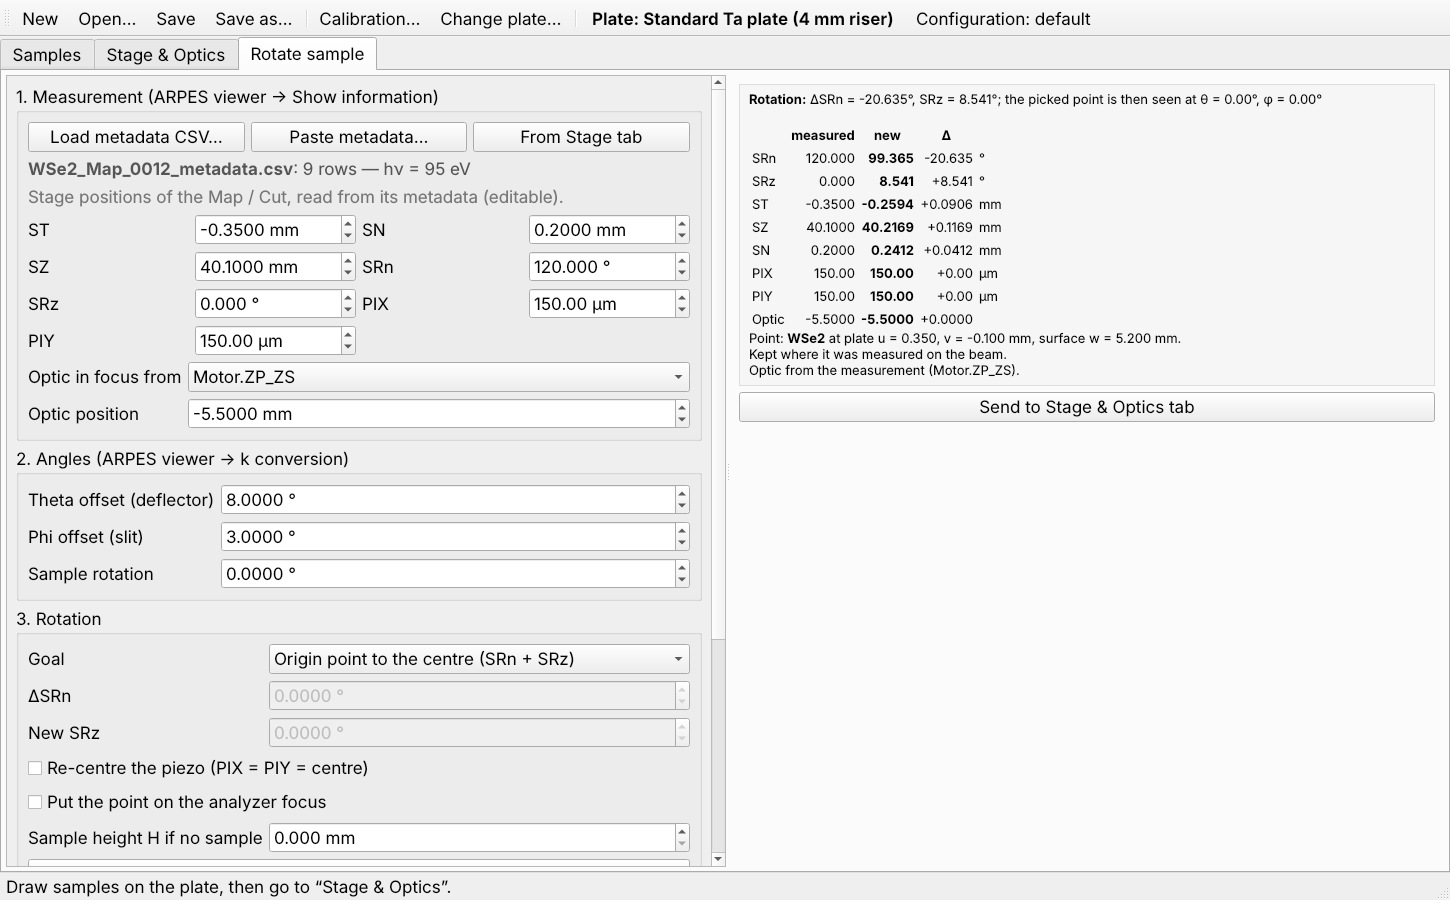
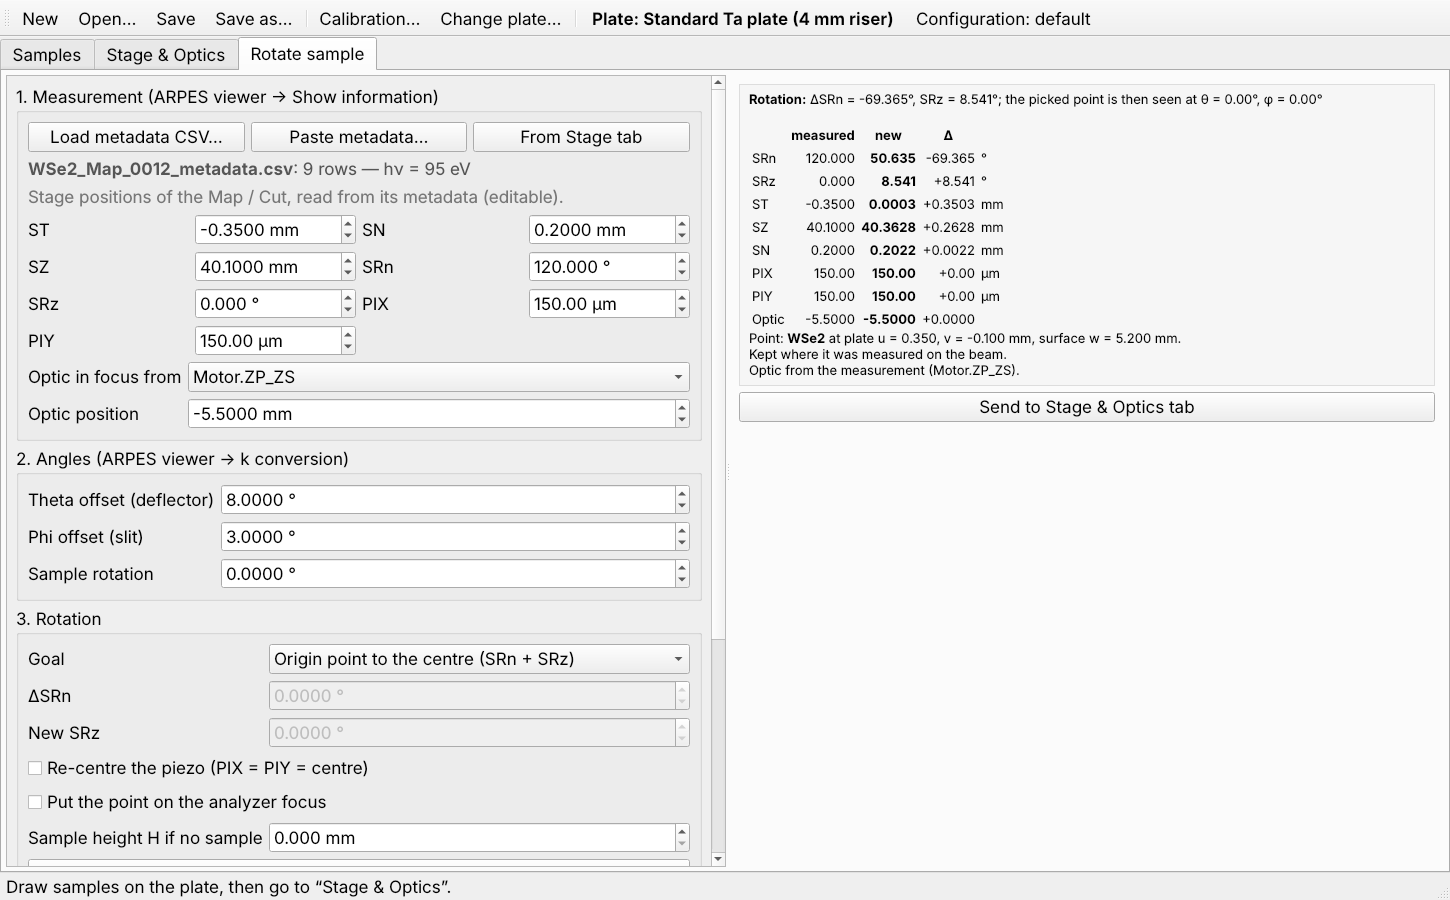
Rotate sample: horizontal analyzer slit by default (ANTARES)
The slit orientation setting is now stored by name, so an earlier saved
choice is not reinterpreted by the new order.

Claude-Session: https://claude.ai/code/session_01Ti72QyxSFR34LYfiKH7crR

Changed region(s): [[0.5897, 0.0933, 0.869, 0.3733]]

diff --git a/quickalignment/ui/rotation_panel.py b/quickalignment/ui/rotation_panel.py
@@ -222,14 +222,16 @@ class RotationPanel(QtWidgets.QWidget):
                 return int(self.settings.value(f"rotation/{key}", default))
             except (TypeError, ValueError):
                 return default
-        self.slit.setCurrentIndex(get("slit", 0))
+        slit = self.settings.value("rotation/slit_orientation", SLIT_ORIENTATIONS[0])
+        self.slit.setCurrentText(slit if slit in SLIT_ORIENTATIONS else SLIT_ORIENTATIONS[0])
         self._on_slit(self.slit.currentText())
         self.slit_sign.setCurrentIndex(get("slit_sign", 0))
         self.defl_sign.setCurrentIndex(get("deflector_sign", 0))
         self.rot_sign.setCurrentIndex(get("rotation_sign", 0))
 
     def _save_settings(self, *_) -> None:
-        for key, box in (("slit", self.slit), ("slit_sign", self.slit_sign), ("deflector_sign", self.defl_sign),
+        self.settings.setValue("rotation/slit_orientation", self.slit.currentText())
+        for key, box in (("slit_sign", self.slit_sign), ("deflector_sign", self.defl_sign),
                          ("rotation_sign", self.rot_sign)):
             self.settings.setValue(f"rotation/{key}", box.currentIndex())
 

diff --git a/quickalignment/rotation.py b/quickalignment/rotation.py
@@ -35,21 +35,21 @@ from .stage import (
     B, N_HAT, T_HAT, Z_HAT, MotorPositions, OpticsCalibration, StageModel, beam_on_layout, rot_2d, rot_z,
 )
 
-SLIT_ORIENTATIONS = ("vertical", "horizontal")
+SLIT_ORIENTATIONS = ("horizontal", "vertical")  # ANTARES: horizontal slit
 
 
 @dataclass
 class AnalyzerGeometry:
     """How the analyzer angles sit in the lab, seen from the analyzer.
 
-    slit: "vertical" (slit along Z) or "horizontal" (along ST).
+    slit: "horizontal" (along ST, ANTARES) or "vertical" (along Z).
     slit_sign: +1 if a positive slit angle (phi) points up (vertical slit) or
       to the right (horizontal slit), seen from the analyzer; -1 otherwise.
     deflector_sign: likewise for a positive deflector angle (theta): to the
       right (vertical slit) or up (horizontal slit).
     """
 
-    slit: str = "vertical"
+    slit: str = "horizontal"
     slit_sign: int = 1
     deflector_sign: int = 1
 

diff --git a/tests/test_rotation.py b/tests/test_rotation.py
@@ -43,6 +43,13 @@ def test_to_center(geo):
     if geo.slit == "vertical":
         c = to_center(model, geo, m, 10.0, 0.0)[0]
         assert c.srn == pytest.approx(120) and abs(c.srz) == pytest.approx(10)
+    else:  # horizontal slit: a point along the slit only needs SRz
+        c = to_center(model, geo, m, 0.0, 10.0)[0]
+        assert c.srn == pytest.approx(120) and abs(c.srz) == pytest.approx(10)
+
+
+def test_default_slit_is_horizontal():
+    assert AnalyzerGeometry().slit == "horizontal"
 
 
 @pytest.mark.parametrize("geo", GEOMETRIES)

diff --git a/README.md b/README.md
@@ -77,7 +77,7 @@ All inputs come from ARPES viewer:
 By default the sample point is kept where it was during the Map (motor differences from the model), so
 errors of ST0 / SZ0 / SN_f largely cancel and the optic stays as it was; the accuracy depends mainly on the
 calibrated SRn / SRz axis positions. *Put the point on the analyzer focus* behaves like *Bring target to focus*
-instead, and then the optic moves accordingly. **Analyzer geometry** (slit vertical/horizontal, signs of θ
+instead, and then the optic moves accordingly. **Analyzer geometry** (slit horizontal at ANTARES = default, signs of θ
 and φ seen from the analyzer, rotation sense) is a setting remembered between sessions: check it once on a
 known sample (e.g. turn by the computed ΔSRn and see whether the direction lands on the slit, else flip the sign).
 
